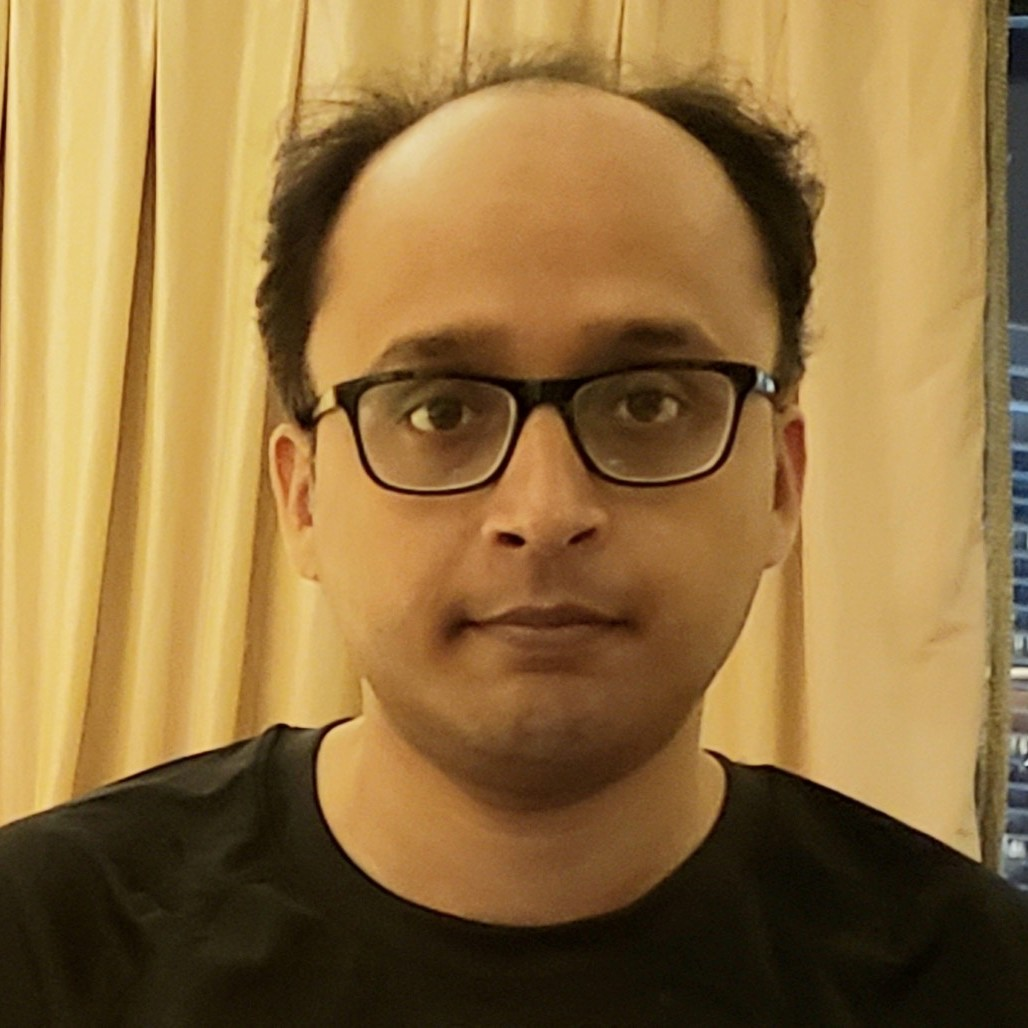
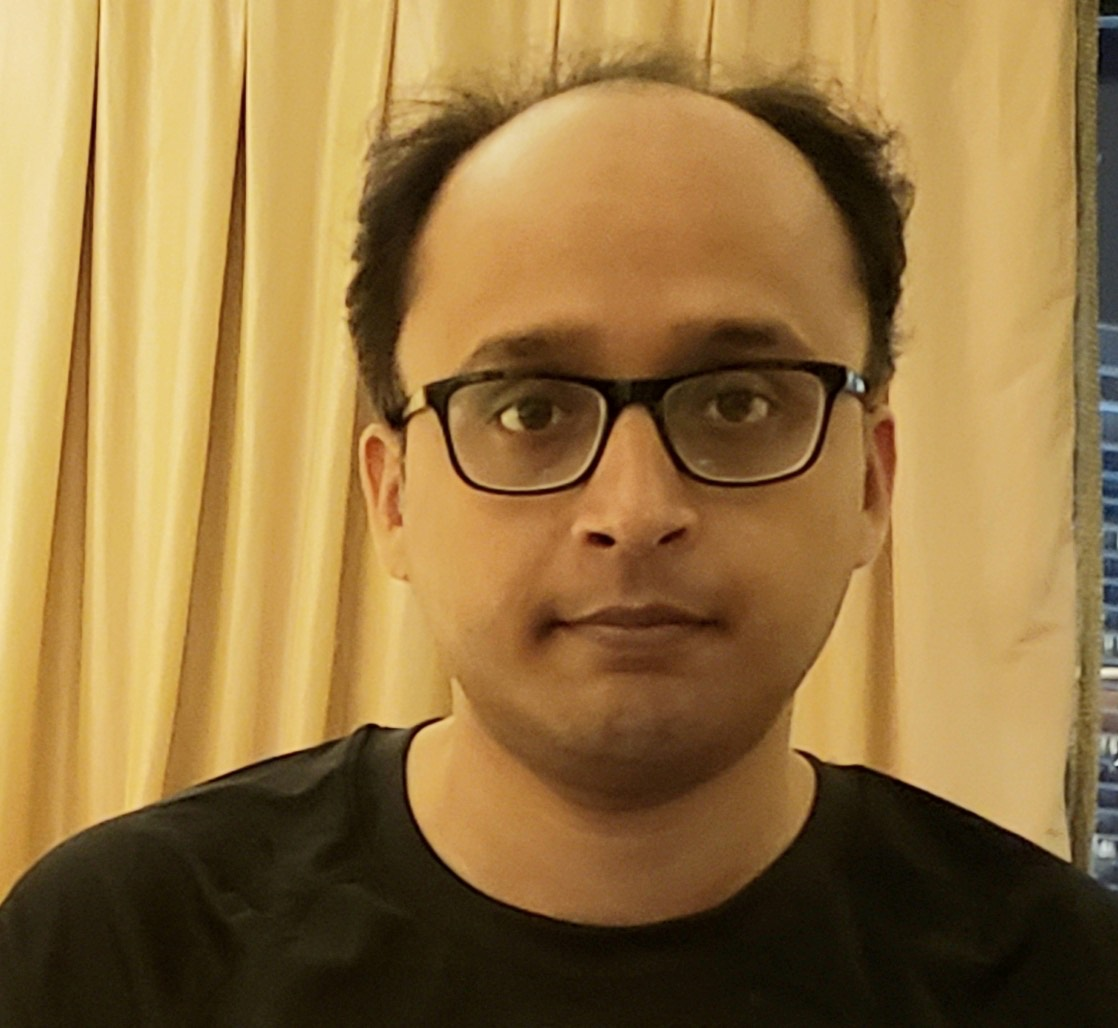
On branch main Your branch is up to date with 'origin/main'.
Changes to be committed:
	modified:   assets/img/avatars/avatar.jpg
	modified:   index.html

diff --git a/index.html b/index.html
@@ -1,6 +1,4 @@
-<!DOCTYPE html><html data-bs-theme="light"><head><meta charset="utf-8"><meta name="viewport" content="width=device-width, initial-scale=1.0, shrink-to-fit=no"><title>CV - Brand</title><link rel="stylesheet" href="/assets/bootstrap/css/bootstrap.min.css"><link rel="stylesheet" href="/assets/fonts/ionicons.min.css"><link rel="stylesheet" href="/assets/css/styles.min.css"></head><body><nav class="navbar navbar-expand-lg fixed-top portfolio-navbar gradient navbar-dark" style="border-style: initial;"><div class="container"><a class="navbar-brand logo" href="#">Portfolio of Sunbeam Rahman</a></div></nav><main class="page cv-page"><section class="portfolio-block block-intro border-bottom"><div class="container"><div class="avatar" style="background-image:url(&quot;/assets/img/avatars/avatar.jpg&quot;);"></div><div class="about-me"><p>Hello! I am <strong>Sunbeam Rahman</strong>. I have 10+ years of experience in Geographic Information System. I am a passionate spatial problem solver.</p></div></div><section class="portfolio-block skills"><div class="container"><div class="heading"><h2>Special Skills</h2></div><div class="row"><div class="col-md-4"><div class="card special-skill-item border-0"><div class="card-header bg-transparent border-0"><i class="icon ion-android-globe fs-1 text-center"></i></div><div class="card-body"><h3 class="card-title">GIS</h3><p class="card-text">Vector data analysis, Cartography, 3D Spatial data analysis and Web GIS</p></div></div></div><div class="col-md-4"><div class="card special-skill-item border-0"><div class="card-header bg-transparent border-0"><i class="icon ion-code-working fs-1 text-center"></i></div><div class="card-body"><h3 class="card-title">Spatial Programming</h3><p class="card-text">Spatial data analysis with Python, Survey data management and Automated reporting</p></div></div></div><div class="col-md-4"><div class="card special-skill-item border-0"><div class="card-header bg-transparent border-0"><i class="icon ion-android-map fs-1 text-center"></i></div><div class="card-body"><h3 class="card-title">Remote Sensing</h3><p class="card-text">Satellite image processing, Feature extraction, LULC and 3D data analysis</p></div></div></div></div></div></section></section></main><footer class="page-footer py-3 border-top"><div class="container"><div class="row"><div class="col-md-12"><h1 class="fs-4">Contact me</h1></div></div><div class="row"><div class="col-md-6"><div class="d-flex align-items-center p-3"><div class="bs-icon-sm bs-icon-rounded bs-icon-primary d-flex flex-shrink-0 justify-content-center align-items-center d-inline-block bs-icon"><svg xmlns="http://www.w3.org/2000/svg" width="1em" height="1em" fill="currentColor" viewBox="0 0 16 16" class="bi bi-telephone">
-  <path d="M3.654 1.328a.678.678 0 0 0-1.015-.063L1.605 2.3c-.483.484-.661 1.169-.45 1.77a17.568 17.568 0 0 0 4.168 6.608 17.569 17.569 0 0 0 6.608 4.168c.601.211 1.286.033 1.77-.45l1.034-1.034a.678.678 0 0 0-.063-1.015l-2.307-1.794a.678.678 0 0 0-.58-.122l-2.19.547a1.745 1.745 0 0 1-1.657-.459L5.482 8.062a1.745 1.745 0 0 1-.46-1.657l.548-2.19a.678.678 0 0 0-.122-.58L3.654 1.328zM1.884.511a1.745 1.745 0 0 1 2.612.163L6.29 2.98c.329.423.445.974.315 1.494l-.547 2.19a.678.678 0 0 0 .178.643l2.457 2.457a.678.678 0 0 0 .644.178l2.189-.547a1.745 1.745 0 0 1 1.494.315l2.306 1.794c.829.645.905 1.87.163 2.611l-1.034 1.034c-.74.74-1.846 1.065-2.877.702a18.634 18.634 0 0 1-7.01-4.42 18.634 18.634 0 0 1-4.42-7.009c-.362-1.03-.037-2.137.703-2.877L1.885.511z"></path>
-</svg></div><div class="fs-6 px-2"><p class="fs-6 mb-0">+1 (825) 734 4648</p></div></div><div class="d-flex align-items-center p-3"><div class="bs-icon-sm bs-icon-rounded bs-icon-primary d-flex flex-shrink-0 justify-content-center align-items-center d-inline-block bs-icon"><svg xmlns="http://www.w3.org/2000/svg" width="1em" height="1em" fill="currentColor" viewBox="0 0 16 16" class="bi bi-envelope">
+<!DOCTYPE html><html data-bs-theme="light"><head><meta charset="utf-8"><meta name="viewport" content="width=device-width, initial-scale=1.0, shrink-to-fit=no"><title>CV - Brand</title><link rel="stylesheet" href="/assets/bootstrap/css/bootstrap.min.css"><link rel="stylesheet" href="/assets/fonts/ionicons.min.css"><link rel="stylesheet" href="/assets/css/styles.min.css"></head><body><nav class="navbar navbar-expand-lg fixed-top portfolio-navbar gradient navbar-dark" style="border-style: initial;"><div class="container"><a class="navbar-brand logo" href="#">Portfolio of Sunbeam Rahman</a></div></nav><main class="page cv-page"><section class="portfolio-block block-intro border-bottom"><div class="container"><div class="avatar" style="background-image:url(&quot;/assets/img/avatars/avatar.jpg&quot;);"></div><div class="about-me"><p>Hello! I am <strong>Sunbeam Rahman</strong>. I have 10+ years of experience in Geographic Information System. I am a passionate spatial problem solver.</p></div></div><section class="portfolio-block skills"><div class="container"><div class="heading"><h2>Special Skills</h2></div><div class="row"><div class="col-md-4"><div class="card special-skill-item border-0"><div class="card-header bg-transparent border-0"><i class="icon ion-android-globe fs-1 text-center"></i></div><div class="card-body"><h3 class="card-title">GIS</h3><p class="card-text">Vector data analysis, Cartography, 3D Spatial data analysis and Web GIS</p></div></div></div><div class="col-md-4"><div class="card special-skill-item border-0"><div class="card-header bg-transparent border-0"><i class="icon ion-code-working fs-1 text-center"></i></div><div class="card-body"><h3 class="card-title">Spatial Programming</h3><p class="card-text">Spatial data analysis with Python, Survey data management and Automated reporting</p></div></div></div><div class="col-md-4"><div class="card special-skill-item border-0"><div class="card-header bg-transparent border-0"><i class="icon ion-android-map fs-1 text-center"></i></div><div class="card-body"><h3 class="card-title">Remote Sensing</h3><p class="card-text">Satellite image processing, Feature extraction, LULC and 3D data analysis</p></div></div></div></div></div></section></section></main><footer class="page-footer py-3 border-top"><div class="container"><div class="row"><div class="col-md-12"><h1 class="fs-4">Contact me</h1></div></div><div class="row"><div class="col-md-6"><div class="d-flex align-items-center p-3"><div class="bs-icon-sm bs-icon-rounded bs-icon-primary d-flex flex-shrink-0 justify-content-center align-items-center d-inline-block bs-icon"><svg xmlns="http://www.w3.org/2000/svg" width="1em" height="1em" fill="currentColor" viewBox="0 0 16 16" class="bi bi-envelope">
   <path d="M0 4a2 2 0 0 1 2-2h12a2 2 0 0 1 2 2v8a2 2 0 0 1-2 2H2a2 2 0 0 1-2-2V4Zm2-1a1 1 0 0 0-1 1v.217l7 4.2 7-4.2V4a1 1 0 0 0-1-1H2Zm13 2.383-4.708 2.825L15 11.105V5.383Zm-.034 6.876-5.64-3.471L8 9.583l-1.326-.795-5.64 3.47A1 1 0 0 0 2 13h12a1 1 0 0 0 .966-.741ZM1 11.105l4.708-2.897L1 5.383v5.722Z"></path>
 </svg></div><div class="px-2"><p class="fs-6 mb-0">sunbeam.rahman@live.com</p></div></div><div class="d-flex align-items-center p-3"><div class="bs-icon-sm bs-icon-rounded bs-icon-primary d-flex flex-shrink-0 justify-content-center align-items-center d-inline-block bs-icon"><svg xmlns="http://www.w3.org/2000/svg" width="1em" height="1em" fill="currentColor" viewBox="0 0 16 16" class="bi bi-pin">
   <path d="M4.146.146A.5.5 0 0 1 4.5 0h7a.5.5 0 0 1 .5.5c0 .68-.342 1.174-.646 1.479-.126.125-.25.224-.354.298v4.431l.078.048c.203.127.476.314.751.555C12.36 7.775 13 8.527 13 9.5a.5.5 0 0 1-.5.5h-4v4.5c0 .276-.224 1.5-.5 1.5s-.5-1.224-.5-1.5V10h-4a.5.5 0 0 1-.5-.5c0-.973.64-1.725 1.17-2.189A5.921 5.921 0 0 1 5 6.708V2.277a2.77 2.77 0 0 1-.354-.298C4.342 1.674 4 1.179 4 .5a.5.5 0 0 1 .146-.354zm1.58 1.408-.002-.001.002.001zm-.002-.001.002.001A.5.5 0 0 1 6 2v5a.5.5 0 0 1-.276.447h-.002l-.012.007-.054.03a4.922 4.922 0 0 0-.827.58c-.318.278-.585.596-.725.936h7.792c-.14-.34-.407-.658-.725-.936a4.915 4.915 0 0 0-.881-.61l-.012-.006h-.002A.5.5 0 0 1 10 7V2a.5.5 0 0 1 .295-.458 1.775 1.775 0 0 0 .351-.271c.08-.08.155-.17.214-.271H5.14c.06.1.133.191.214.271a1.78 1.78 0 0 0 .37.282z"></path>
